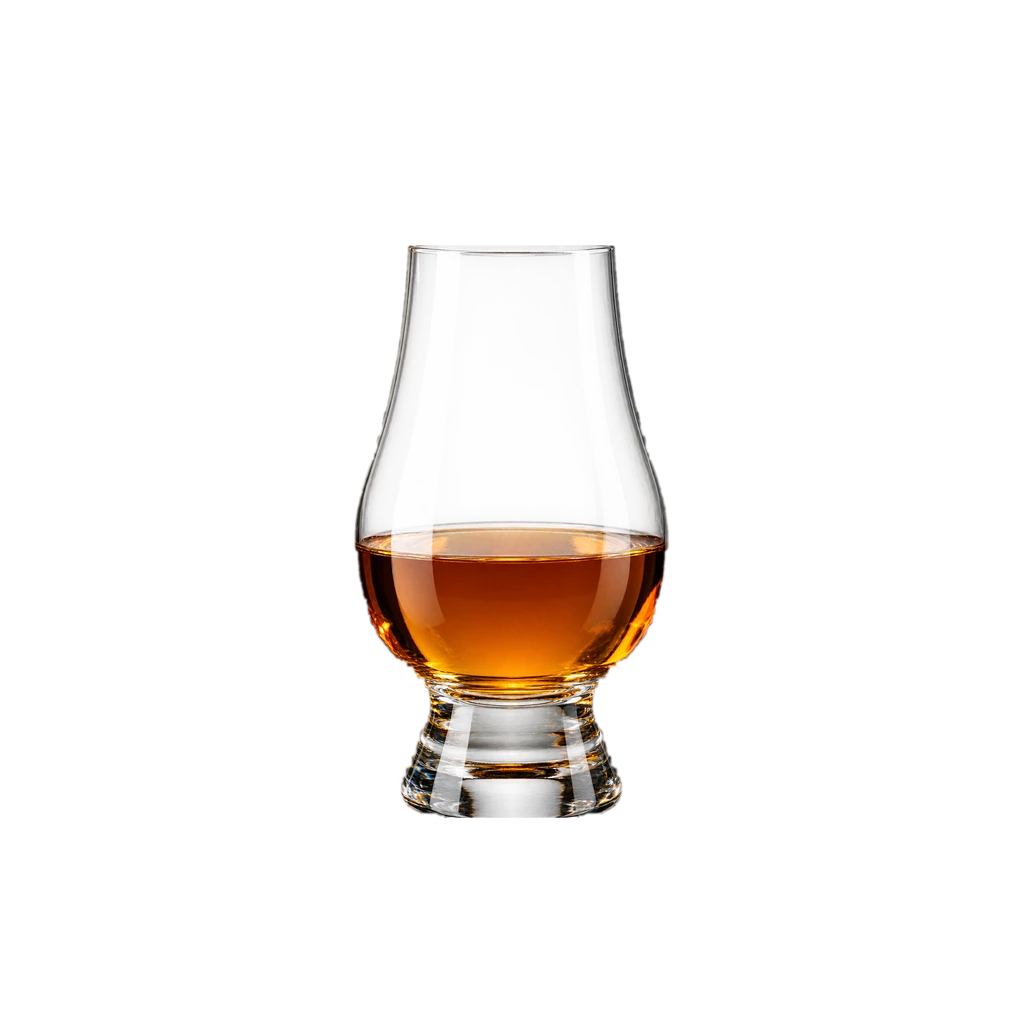
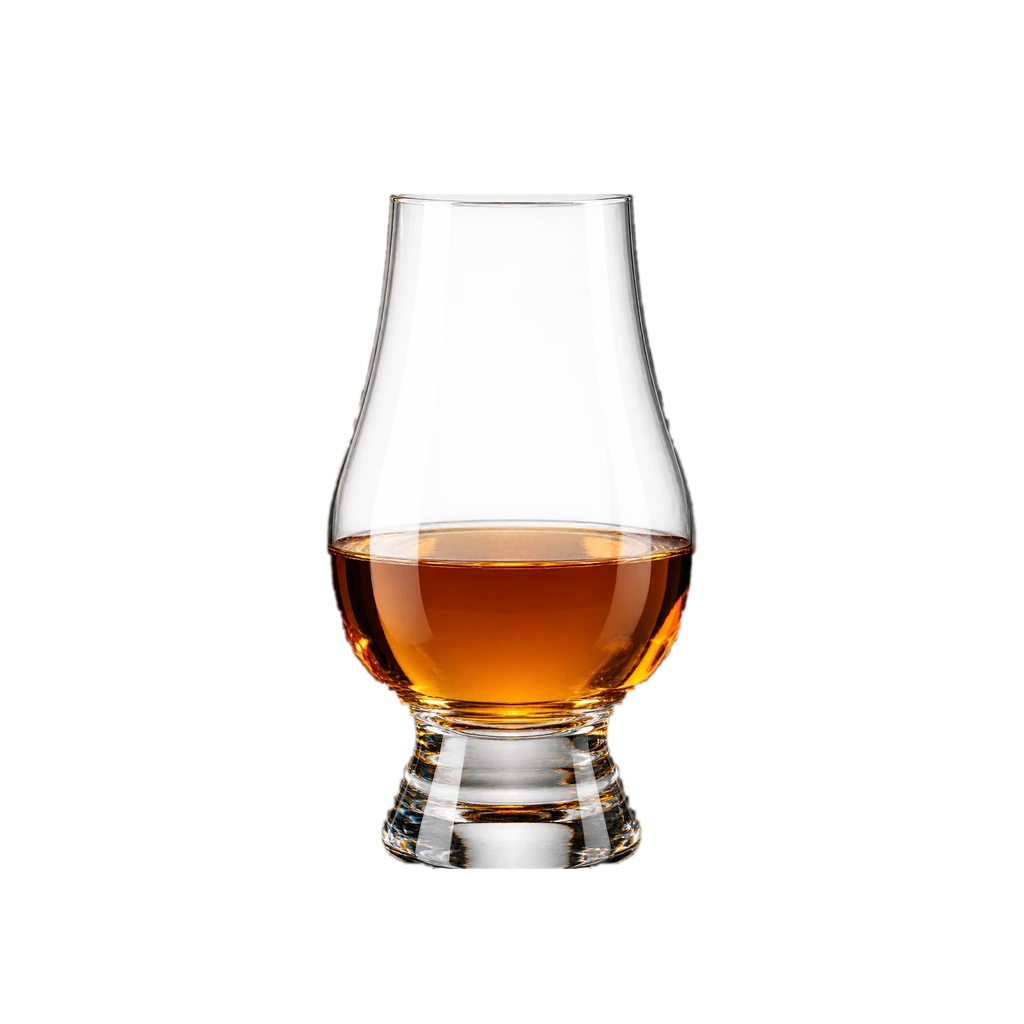
Neat Freak: Regular Pour's counts (1..3000), glass 18% larger to fill the well under the stars
Claude-Session: https://claude.ai/code/session_011y4eC6Vivm6BGRhW3DdqtM

Changed region(s): [[0.3125, 0.1875, 0.6875, 0.875]]

diff --git a/scripts/neat_freak_medal.py b/scripts/neat_freak_medal.py
@@ -20,7 +20,7 @@ from PIL import Image, ImageFilter, ImageDraw
 
 SRC = "public/badges/masters/parts/neat-glencairn.png"
 S = 1024
-GLASS_H = 0.56      # glass height as a fraction of the disc
+GLASS_H = 0.66      # glass height as a fraction of the disc
 GLASS_CY = 0.52     # vertical centre of the glass on the disc
 CLEAR_FROM = 0.48   # empty bowl: fraction of light let through at full white (0 = solid)
 LIQUID_Y = 790      # source row of the whiskey surface; below it everything is solid
